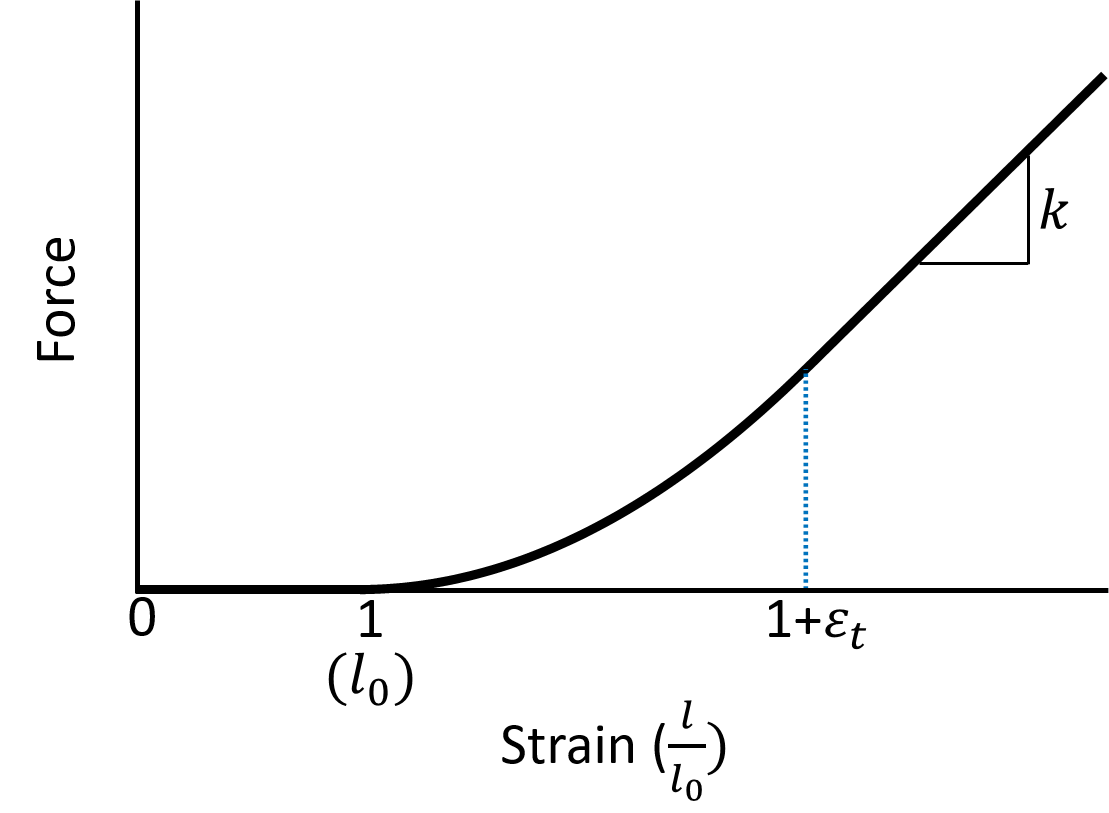
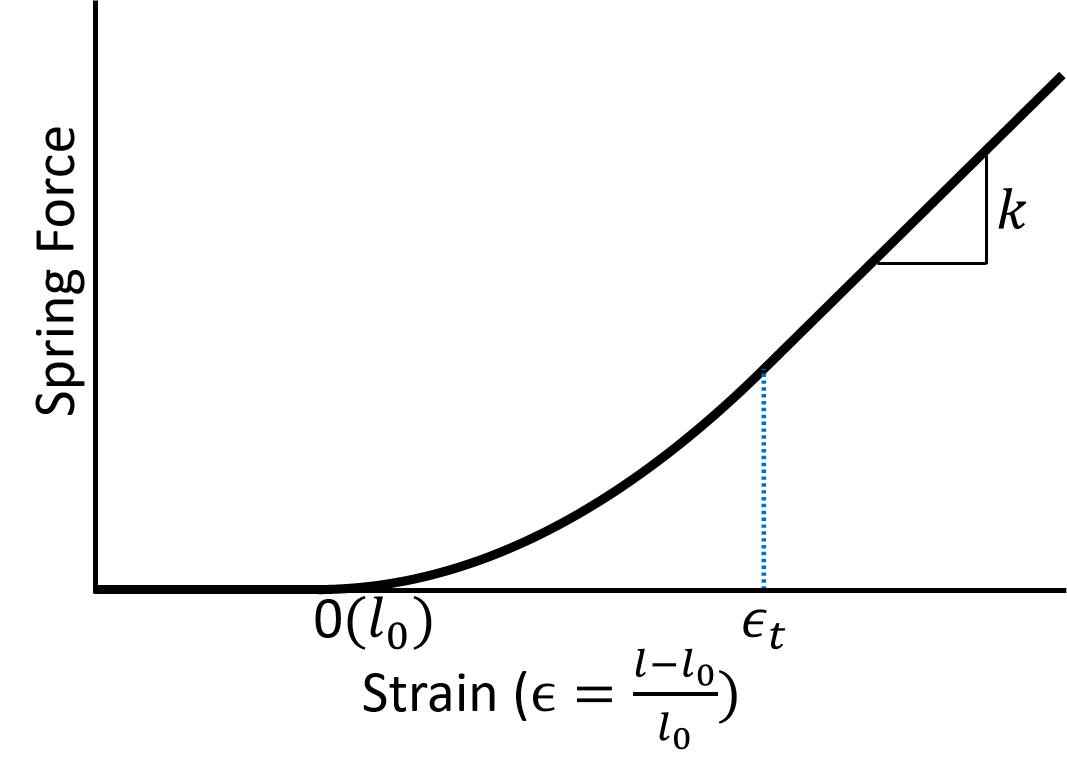
Updated all equations to be in terms of strain. Updated damping_coefficient and linear_stiffness to be in terms of strain. Added extra tests to make sure setSlackLengthFromReferenceStrain and setSlackLengthFromReferenceForce are working correctly. Changed lengthening_rate to lengthening_speed. Updat

Changed region(s): [[0.0309, 0.0, 1.0, 0.9974], [0.6804, 0.816, 0.7423, 0.8463]]

diff --git a/OpenSim/Simulation/Model/Blankevoort1991Ligament.cpp b/OpenSim/Simulation/Model/Blankevoort1991Ligament.cpp
@@ -152,7 +152,7 @@ double Blankevoort1991Ligament::getLength(const SimTK::State& state) const {
     return get_GeometryPath().getLength(state);
 }
 
-double Blankevoort1991Ligament::getLengtheningRate(
+double Blankevoort1991Ligament::getLengtheningSpeed(
         const SimTK::State& state) const {
     return get_GeometryPath().getLengtheningSpeed(state);
 }
@@ -170,7 +170,7 @@ double Blankevoort1991Ligament::getStrain(const SimTK::State& state) const {
 double Blankevoort1991Ligament::getStrainRate(
         const SimTK::State& state) const {
    if(!isCacheVariableValid(state,"strain_rate")) {
-        double lengthening_speed = getLengtheningRate(state);
+        double lengthening_speed = getLengtheningSpeed(state);
         double strain_rate = lengthening_speed / get_slack_length();
 
         setCacheVariableValue<double>(state, "strain_rate", strain_rate);
@@ -205,8 +205,12 @@ double Blankevoort1991Ligament::getTotalForce(
     return getCacheVariableValue<double>(state, "force_total");
 }
 
-double Blankevoort1991Ligament::getLinearStiffnessForcePerStrain() const {
+double Blankevoort1991Ligament::getLinearStiffnessForcePerLength() const {
     return get_linear_stiffness() * get_slack_length();
+};
+
+double Blankevoort1991Ligament::getDampingCoefficientForceTimePerLength() const {
+    return get_damping_coefficient() * get_slack_length();
 };
 
 double Blankevoort1991Ligament::getTransitionLength() const {
@@ -218,10 +222,10 @@ double Blankevoort1991Ligament::getTransitionLength() const {
 //=============================================================================
 
 void Blankevoort1991Ligament::setSlackLengthFromReferenceStrain(
-    double strain, const SimTK::State& reference_state) {
-
+    double strain, const SimTK::State& reference_state) {    
     double reference_length = getLength(reference_state);
     double slack_length = reference_length / (1.0 + strain);
+    
     set_slack_length(slack_length);
 };
 
@@ -236,19 +240,26 @@ void Blankevoort1991Ligament::setSlackLengthFromReferenceForce(
     setSlackLengthFromReferenceStrain(strain, reference_state);
 };
 
-void Blankevoort1991Ligament::setLinearStiffnessForcePerStrain(
-        double linear_stiffness_strain) {
-    double linear_stiffness_distance =
-            linear_stiffness_strain / get_slack_length();
-    set_linear_stiffness(linear_stiffness_distance);
+void Blankevoort1991Ligament::setLinearStiffnessForcePerLength(
+        double linear_stiffness_length) {
+    double linear_stiffness_strain =
+            linear_stiffness_length / get_slack_length();
+    set_linear_stiffness(linear_stiffness_strain);
 };
 
+void Blankevoort1991Ligament::setDampingCoefficientForceTimePerLength(
+    double damping_coeff_length) {
+    double damping_coeff_strain = damping_coeff_length / get_slack_length();
+    set_damping_coefficient(damping_coeff_strain);
+}
 //=============================================================================
 // COMPUTATION
 //=============================================================================
-double Blankevoort1991Ligament::calcInverseForceStrainCurve(double force) {
-    double transition_force =
-        get_transition_strain() * getLinearStiffnessForcePerStrain();
+double Blankevoort1991Ligament::calcInverseForceStrainCurve(
+    double force) const{
+
+    double transition_force = get_transition_strain() * 
+        get_linear_stiffness() /2;
 
     double strain;
 
@@ -265,8 +276,9 @@ double Blankevoort1991Ligament::calcInverseForceStrainCurve(double force) {
 
 double Blankevoort1991Ligament::calcSpringForce(
         const SimTK::State& state) const {
+
     double strain = getStrain(state);
-    double k = getLinearStiffnessForcePerStrain();
+    double k = get_linear_stiffness();
     double e_t = get_transition_strain();
 
     double force_spring;
@@ -287,12 +299,12 @@ double Blankevoort1991Ligament::calcSpringForce(
 
 double Blankevoort1991Ligament::calcDampingForce(const SimTK::State& s) const {
     double strain = getStrain(s);
-    double lengthening_rate = getLengtheningRate(s);
+    double strain_rate = getStrainRate(s);
     double force_damping = 0.0;
 
-    if (strain > 0 && lengthening_rate > 0) {
+    if (strain > 0 && strain_rate > 0) {
         double damping_coeff = get_damping_coefficient();
-        force_damping = damping_coeff*lengthening_rate;
+        force_damping = damping_coeff*strain_rate;
     }
     else {
         return 0.0;
@@ -333,29 +345,25 @@ void Blankevoort1991Ligament::computeForce(const SimTK::State& s,
 
 double Blankevoort1991Ligament::computePotentialEnergy(
         const SimTK::State& state) const {
-    const double& l = getLength(state);
+
+    const double& strain = getStrain(state);
     const double& k = get_linear_stiffness();
-    const double& l_t = getTransitionLength();
-    const double& l_0 = get_slack_length();
-    
-    double PE;
+    const double& e_t = get_transition_strain();
+    const double& l_0 = get_slack_length();   
 
     //Toe Region
-    if (l > l_0 && l < l_t) {
-        PE = 1.0 / 6.0 * k / (l_t - l_0) * SimTK::cube(l - l_0); 
+    if (strain > 0 && strain < e_t) {
+        return 1.0 / 6.0 * k * l_0 / e_t * SimTK::cube(strain); 
     } 
     //Linear Region
-    else if (l >= l_t){
-        PE = 1.0 / 6.0 * k * SimTK::square(l_0 - l_t) +
-             1.0 / 2.0 * k * (l - l_0) * (l - l_t); 
+    else if (strain >= e_t){
+        return 1.0 / 6.0 * k * l_0 * SimTK::square(e_t) +
+             1.0 / 2.0 * k * l_0 * strain * (strain - e_t); 
     } 
     //Slack Region
     else { //strain <= 0.0
         return 0.0;
-    }
-
-    return PE;
-
+    }    
 }
 
 double Blankevoort1991Ligament::computeMomentArm(
@@ -387,7 +395,7 @@ OpenSim::Array<double> Blankevoort1991Ligament::getRecordValues(
     values.append(getDampingForce(s));
     values.append(getTotalForce(s));
     values.append(getLength(s));
-    values.append(getLengtheningRate(s));
+    values.append(getLengtheningSpeed(s));
     values.append(getStrain(s));
     values.append(getStrainRate(s));
     return values;

diff --git a/OpenSim/Simulation/Test/testForces.cpp b/OpenSim/Simulation/Test/testForces.cpp
@@ -1918,18 +1918,16 @@ Test Setup 1:
 This test is modified from testPathSpring. The ligament is fixed to ground,
 wraps over a cylinder (pulley) and suspends a hanging mass against gravity.
             ____
-           /    \
-          /      \
-         /        \
+           / __ \
+          / /  \ \
+         /  \__/  \
         /          \
         |          |
-        |          |
-        |          |
-        |      ----------
-        |      |        |
-        |      |        |
-        |      |        |
-               ----------
+        |       -------
+        |       |     |
+        |       |     |
+     ___|___    -------
+     ///////
 Test 1.1: The force in the ligament must be equal to the inertial and 
 gravitational forces acting on the block.
 
@@ -1948,13 +1946,11 @@ One end of the ligament is fixed to ground the other to a block. The motion of
 the block is prescribed to check the spring force, damping force and potential 
 energy in the ligament in the slack, toe, and linear regions and at multiple
 speeds.
-/               ______
-/              |      |
-/--------------|      |
-/              |______|
-/              
-
-
+/|               ______
+/|              |      |
+/|--------------|      |
+/|              |______|
+/|
 */
 void testBlankevoort1991Ligament() {
     using namespace SimTK;
@@ -2146,7 +2142,7 @@ void testBlankevoort1991Ligament() {
     outputs.push_back("strain");
     outputs.push_back("strain_rate");
     outputs.push_back("length");
-    outputs.push_back("lengthening_rate");
+    outputs.push_back("lengthening_speed");
     outputs.push_back("spring_force");
     outputs.push_back("damping_force");
     outputs.push_back("total_force");
@@ -2209,11 +2205,9 @@ void testBlankevoort1991Ligament() {
         lig->getOutputValue<double>(state, "damping_force");
 
     ASSERT(damping_lengthening > 0.0, __FILE__, __LINE__,
-            "The damping force in Blankevoort1991Ligament was less than or "
-            "equal "
-            "to zero when the ligament was streched beyond the slack length "
-            "and "
-            "the lengthening_rate was positive.");
+        "The damping force in Blankevoort1991Ligament was less than or "
+        "equal to zero when the ligament was streched beyond the slack length "
+        "and the lengthening_speed was positive.");
 
     //Check that damping is zero if ligament is shortening
     slotCoord.setSpeedValue(state, -1.0);
@@ -2222,9 +2216,54 @@ void testBlankevoort1991Ligament() {
         lig->getOutputValue<double>(state, "damping_force");
 
     ASSERT_EQUAL(damping_shortening, 0.0, 1e-3, __FILE__, __LINE__,
-            "The damping force in Blankevoort1991Ligament was less than or "
-            "equal "
-            "to zero when the ligament was streched beyond the slack length "
-            "and "
-            "the lengthening_rate was positive.");
+        "The damping force in Blankevoort1991Ligament was less than or "
+        "equal to zero when the ligament was streched beyond the slack "
+        "length and the lengthening_speed was positive.");
+
+    //Check linear stiffness in force/length
+    slotCoord.setSpeedValue(state, 0.0);
+    slotCoord.setValue(state, 1.06);
+    model.realizePosition(state);
+    double F1 = lig->getOutputValue<double>(state, "spring_force");
+    double L1 = lig->getOutputValue<double>(state, "length");
+
+    slotCoord.setValue(state, 1.08);
+    model.realizePosition(state);
+    double F2 = lig->getOutputValue<double>(state, "spring_force");
+    double L2 = lig->getOutputValue<double>(state, "length");
+
+    double calc_stiff = (F2 - F1) / (L2 - L1);
+    double lig_stiff = lig->getLinearStiffnessForcePerLength();
+
+    ASSERT_EQUAL(calc_stiff, lig_stiff, 1e-3, __FILE__, __LINE__,
+        "The calculated linear_stiffness in force/length in the "
+        "Blankevoort1991Ligament was not equal to the value returned by "
+        "getLinearStiffnessForcePerLength().");
+
+    //Check setting slack_length through reference force
+    double ref_force = 2.5;
+    double coord_value = 1.1;
+    sliderCoord.setValue(state, coord_value);
+    lig->setSlackLengthFromReferenceForce(ref_force, state);
+    state = model.initSystem();
+    sliderCoord.setValue(state, coord_value);
+    model.realizePosition(state);
+    double reported_force = lig->getSpringForce(state);
+
+    ASSERT_EQUAL(ref_force, reported_force, 1e-3, __FILE__, __LINE__,
+    "The force in the Blankevoort1991Ligament at the reference state was not "
+    "equal to the value input to setSlackLengthFromReferenceForce.");
+    
+    //Check setting slack_length through reference strain    
+    double ref_strain = 0.05;    
+    sliderCoord.setValue(state, coord_value);
+    lig->setSlackLengthFromReferenceStrain(ref_strain, state);
+    state = model.initSystem();
+    sliderCoord.setValue(state, coord_value);
+    model.realizePosition(state);
+    double reported_strain = lig->getStrain(state);
+
+    ASSERT_EQUAL(ref_strain, reported_strain, 1e-3, __FILE__, __LINE__,
+    "The strain in the Blankevoort1991Ligament at the reference state was not "
+    "equal to the value input to setSlackLengthFromReferenceStrain.");
 }
